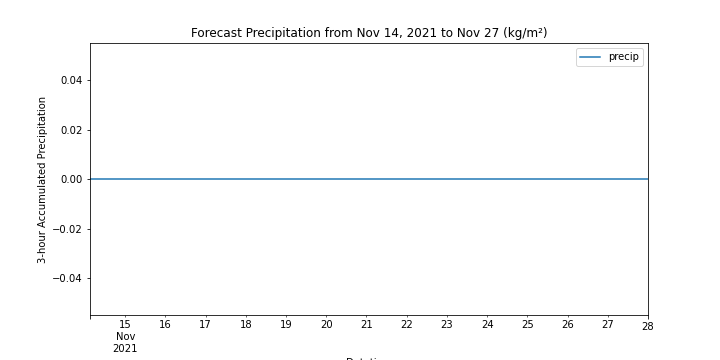
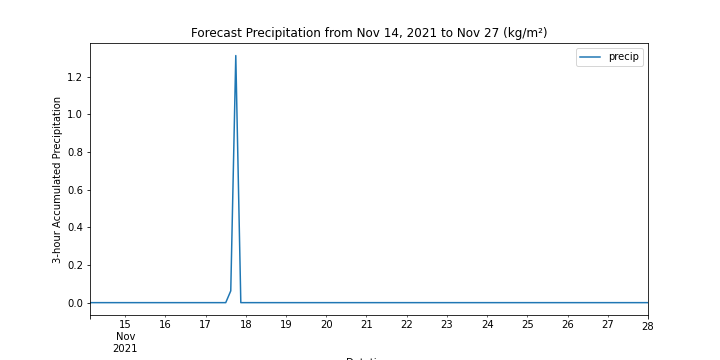
Uploading precipitation data
Put precipitation data on our repo, a small csv. This is the 3-hour forecast total precipitation. Will be updated later.

Changed region(s): [[0.0306, 0.1528, 0.8861, 0.8556], [0.0611, 0.7333, 0.1222, 0.7944], [0.0917, 0.2139, 0.1222, 0.2444]]

diff --git a/Forecast_Submissions/group_forecast/Group1_Forecast.py b/Forecast_Submissions/group_forecast/Group1_Forecast.py
@@ -54,7 +54,6 @@ precip.plot(categorical=False,
 ax.set_title("Arizona annual precip from 1961-1991")
 plt.show()
 # %%
-<<<<<<< Updated upstream
 # Graph?? --> Time series of next two weeks' accumulated precipitation
 # Grab the data
 # Remember to change start_date to '20211111'
@@ -70,7 +69,8 @@ base_url = "https://www.ncei.noaa.gov/data/global-forecast-system/access/grid-00
 
 precip = np.zeros(112)
 
-for i in range(51, 385, 3):
+for i in range(51, 100, 3):
+# for i in range(51, 385, 3):
         if i < 10:
                 filename = "gfs_3_" + start_date + "_0000_00" + str(i) + ".grb2"
         elif i < 100:
@@ -85,12 +85,12 @@ for i in range(51, 385, 3):
 date_time = pd.date_range(start='2021-11-14 3:00', periods=112, freq='3H')
 precip_df = pd.DataFrame({'date_time': date_time, 'precip': precip})
 
-precip_df.to_csv('C:\\Users\\certain\\Desktop\\precip.csv')
+precip_df.to_csv('precip.csv')
 
 # %%
 # Get the graph
 import matplotlib.pyplot as plt
-precip_df = pd.read_table('C:\\Users\\certain\\Desktop\\precip.csv', skiprows=1,
+precip_df = pd.read_table('precip.csv', skiprows=1,
                           sep=',', names=['id', 'date_time', 'precip'],
                           parse_dates=['date_time'])
 precip_df = precip_df.set_index(["date_time"])
@@ -100,11 +100,6 @@ ax.set(xlabel='Datetime',
        ylabel='3-hour Accumulated Precipitation',
        title='Forecast Precipitation from Nov 14, 2021 to Nov 27 (kg/m\u00b2)')
 fig.savefig("Group1_Graph.png")
-=======
-# Graph?? --> time series of predicted precip rate
-
-
->>>>>>> Stashed changes
 
 # %%
 # Forecast Function
